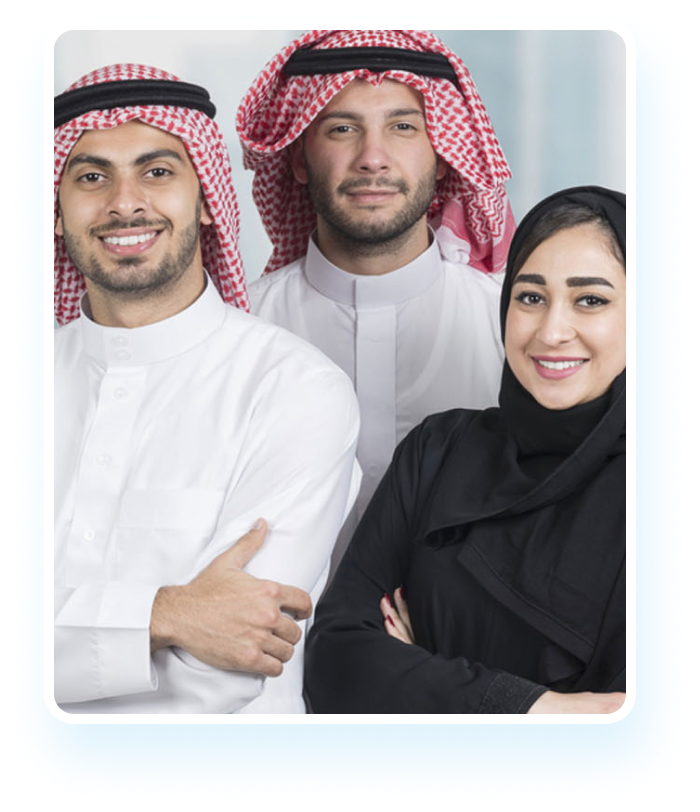
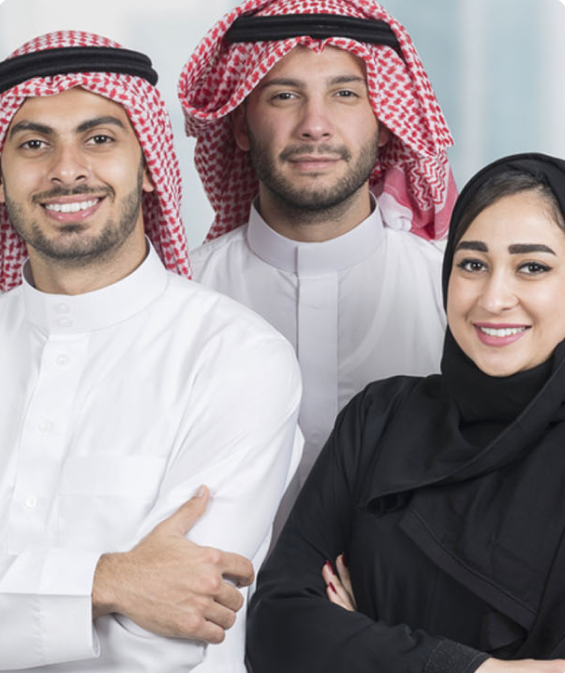
Change

diff --git a/src/components/BookApointmentComp.tsx b/src/components/BookApointmentComp.tsx
@@ -2,6 +2,8 @@ import { InlineWidget } from "react-calendly";
 import BookAppointmentTri from "../assets/images/triangles/BookAppointmentTri.png";
 import { Fade, Zoom } from "react-awesome-reveal";
 import { calendlyUrl } from "../Constants/constant";
+import main from "../assets/images/appointment/main.png"
+import connect from "../assets/images/appointment/connect.png";
 const BusinessBanner = () => {
   return (
     <>
@@ -10,7 +12,7 @@ const BusinessBanner = () => {
         <div className="relative">
           <img
             loading="lazy"
-            src="https://s3-alpha-sig.figma.com/img/8397/6fcb/d8d5f0c8c9455d85957eca0526b16177?Expires=1743379200&Key-Pair-Id=APKAQ4GOSFWCW27IBOMQ&Signature=crBNf-U-d3zbdz48MNuz-UyaEl7GOQ5PlZkdmUbl6t8VLQdqews80v2nsHcB~sQe0~l1xgKIRscyDT5pY2~NNnNTZzI~oAdN9c7B8Lxn4ZB5ts~3VbCS9YxuxvkU5wBo3ktWAllW2mSXYT6uM~aRGnBf8vLaN9tFGpe3OM2Cfm2ZYAvgYjF9bOzV2PiwOI1A-13Owkf6LKPmmw7ezSn7i7KHnYtyiurtL-gxSz3DciPU5Q~PK5NeoO1a7opbJihMCdh8JUVKBIv85GnmqWuIvQ3UuAj6uRhHSA6tf6z-v5U8fD-uzlkRLBZT6Bo2jUTLuvxxX~cz42vce2vtFD5piA__"
+            src={main}
             alt="Empower Business"
             className="w-full min-h-108 object-cover rounded-4xl"
           />
@@ -77,9 +79,9 @@ export const LetsConnect = () => {
         <div className="flex justify-center">
           <img
             loading="lazy"
-            src="https://s3-alpha-sig.figma.com/img/65d1/de9e/b5ce074e5491dfebebbdc4246cd39961?Expires=1743379200&Key-Pair-Id=APKAQ4GOSFWCW27IBOMQ&Signature=IDKWQGvQvLPzOU5vhGwCfS8LFevwAJitB5gtAIudv62D5GraUoAKUj~du0Oi7aFNQ9uW5PYM3ixfhUidKFrCniVfTIyF88rjvDe2B0ep6onwwFim0rBHoznXnODDCWu6TZtari9kg0cNYeW2ZhlxcYQ-2KYY28SclcfGzmHiei8PgIWP1un2wIho3rPHx6j7eakyFJoMeTNySmkO-K2ZIJ-5sZC0bw6rcy~8l0n7xzixz8J~Q4L2-upbkrT1IXm2EUr6l63MKpvm~~szgMMQ0-StOcoscvuwgdA9cGUmbeCAK57-HK8TKrhdm5iBigW~LMQWjw4rKKPFcYgV3lGSrg__"
+            src={connect}
             alt="Let's Connect"
-            className=" h-108 max-w-sm rounded-lg object-cover shadow-lg"
+            className=" h-108 max-w-sm rounded-lg object-cover shadow-xl shadow-blue-500/50"
           />
         </div>
         </Fade>
@@ -127,7 +129,7 @@ export const MeetHAGroup = () => {
           ))}
         </div>
 
-        <button className="mt-6 bg-red-500 text-white px-6 py-2 rounded-lg font-semibold hover:bg-red-600">
+        <button className="mt-6 bg-red-500 text-white px-6 py-2 rounded-lg font-semibold hover:bg-red-600" onClick={() => window.open(calendlyUrl)}>
           Know more
         </button>
         </Fade>
